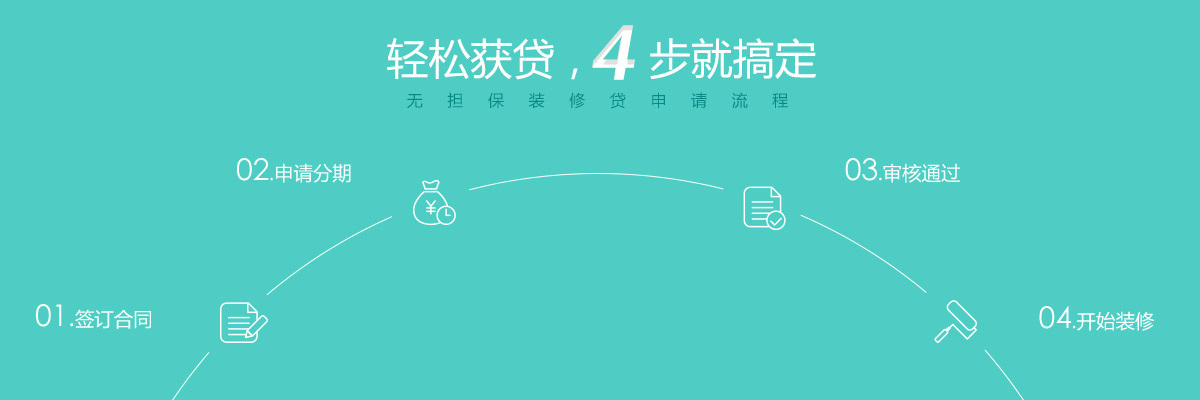
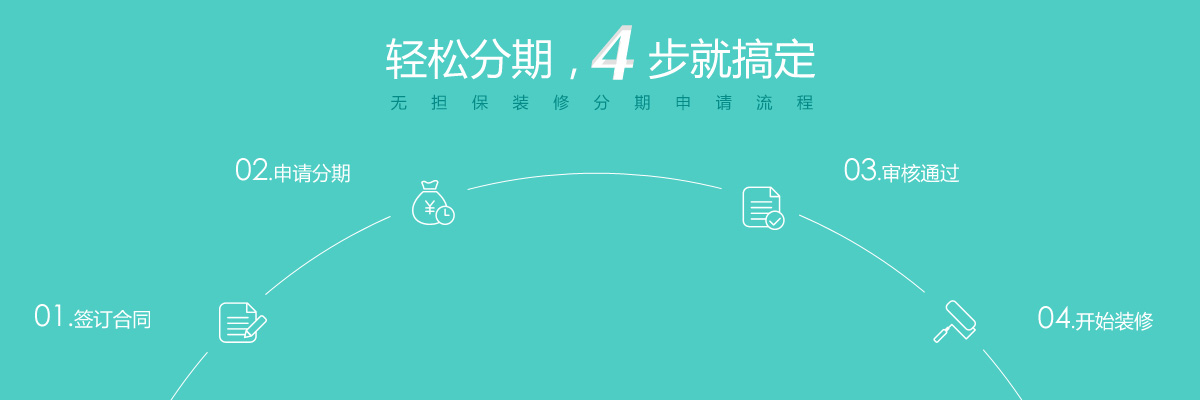
ui更新

diff --git a/anjia/index.html b/anjia/index.html
@@ -116,48 +116,48 @@
             </div>
         </div>
     </div>
-    <div class="cooperative-business-main bg-color-white">
+    <div class="cooperative-business-main">
     	<div class="ui-wrap">
         	<div class="common-title1">合作商家</div>
-            <div class="business-cooperation-list">
-            	<ul class="clearfix">
-                	<li>
-                    	<img src="../res/images/business-img1.jpg" class="b-c-proimg" />
-                        <div class="b-c-list-r">
-                        	<p class="b-c-logo-p">
-                            	<img src="../res/images/b-c-logo.jpg" class="b-c-logo" />
-                            </p>
-                            <p class="b-c-title">悦享家</p>
-                            <p>
-                            	<a href="###" class=" btn-green-empty-s">查看装修案例</a>
-                            </p>
+            <div class="cooperative-business-box clearfix">
+            	<div class="cooperative-part f-right">
+                    <img src="../res/images/business-logo2.png" class="cooperative-part-logo" />
+                    <div class="cooperative-example clearfix">
+                    	<div class="cooperative-example-part cooperative-example-part-two">
+                        	<img src="../res/images/example-img2.jpg" class="c-example-img hover-img" />
+                            <div class="c-example-box">
+                            	<img src="../res/images/example-logo3.png" class="c-example-logo">
+                                <p>
+                                	<a href="http://www.cdlrzs.com/" target="_blank" class="btn-green-full">了解朗润</a>
+                                </p>
+                            </div>
                         </div>
-                    </li>
-                    <li>
-                    	<img src="../res/images/business-img1.jpg" class="b-c-proimg" />
-                        <div class="b-c-list-r">
-                        	<p class="b-c-logo-p">
-                            	<img src="../res/images/b-c-logo.jpg" class="b-c-logo" />
-                            </p>
-                            <p class="b-c-title">悦享家</p>
-                            <p>
-                            	<a href="###" class=" btn-green-empty-s">查看装修案例</a>
-                            </p>
+                    </div>
+                </div>
+            	<div class="cooperative-part">
+                    <img src="../res/images/business-logo1.png" class="cooperative-part-logo" />
+                    <div class="cooperative-example clearfix">
+                    	<div class="cooperative-example-part">
+                        	<img src="../res/images/example-img1.jpg" class="c-example-img hover-img" />
+                            <div class="c-example-box">
+                            	<img src="../res/images/example-logo1.png" class="c-example-logo">
+                                <p>
+                                	<a href="http://www.shj.cn/" target="_blank" class="btn-green-full">了解悦享家</a>
+                                </p>
+                            </div>
                         </div>
-                    </li>
-                    <li>
-                    	<img src="../res/images/business-img1.jpg" class="b-c-proimg" />
-                        <div class="b-c-list-r">
-                        	<p class="b-c-logo-p">
-                            	<img src="../res/images/b-c-logo1.jpg" class="b-c-logo" />
-                            </p>
-                            <p class="b-c-title">悦享家</p>
-                            <p>
-                            	<a href="###" class=" btn-green-empty-s">查看装修案例</a>
-                            </p>
+                        <div class="cooperative-example-part">
+                        	<img src="../res/images/example-img3.jpg" class="c-example-img hover-img" />
+                            <div class="c-example-box">
+                            	<img src="../res/images/example-logo2.png" class="c-example-logo">
+                                <p>
+                                	<a href="http://www.shj.cn/" target="_blank" class="btn-green-full">了解尊享家</a>
+                                </p>
+                            </div>
                         </div>
-                    </li>
-                </ul>
+                    </div>
+                </div>
+                
             </div>
         </div>
     </div>
@@ -185,6 +185,8 @@
 					onTouch: true
 				}
 			});
+			//合作商家经过效果
+			$.fn.businessHoverFun();
 		})
 	</script>
 </body>

diff --git a/anjia/mystaging.html b/anjia/mystaging.html
@@ -216,7 +216,7 @@
                         </div>
                     </div>
                     <div class="sign-item clearfix">
-                        <label><em>*</em>套餐类型</label>
+                        <label><em>*</em>产品类型</label>
                         <div class="sign-right-cont">
                             <select id="packageType" class="common-select" style="width:413px;">
                             </select>
@@ -225,7 +225,7 @@
                         </div>
                     </div>
                     <div class="sign-item clearfix">
-                        <label><em>*</em>贷款金额</label>
+                        <label><em>*</em>分期金额</label>
                         <div class="sign-right-cont">
                             <input id="packageMoney" type="text" placeholder="请输入贷款金额" class="common-input-text" style="width:380px;" />
                             <span class="form-validate-tip validate-error" style="display:none;"><i class="common-ico validate-ico"></i>填写正确</span>
@@ -391,7 +391,7 @@
                                     </div>
                                 </div>
                             </div>
-                            <div class="common-tap-title">工作信息</div>
+                            <div class="common-tap-title">工作信息<em>（本申请表所填写的各项信息是能否获批分期及核定金额的重要依据，务必仔细，严谨，如实填写。）</em></div>
                             <div class="common-tap-box">
                                 <div class="sign-item-box">
                                     <div class="sign-item clearfix">
@@ -463,10 +463,11 @@
                                         </div>
                                     </div>
                                     <div class="sign-item clearfix">
-                                        <label><em>*</em>税后收入</label>
+                                        <label><em>*</em>税后月收入</label>
                                         <div class="sign-right-cont">
                                             <input id="applicantWages" type="text" class="common-input-text" style="width:380px;vertical-align:middle;">&nbsp;&nbsp;<span>元</span>
                                             <span class="form-validate-tip validate-error" style="display:none;"><i class="common-ico validate-ico"></i>不能为空</span>
+                                            
                                         </div>
                                     </div>
                                     <div class="sign-item clearfix" style="margin-top:35px;">
@@ -483,6 +484,7 @@
 
 
 			<div id="step32" class="common-tap-detail" style="display:none;">
+            			<div class="common-tip">您填写的联系人信息越全面，越快审批。</div>
                         <div class="common-tap-item" id="contact-person-inf">
                             <div class="common-tap-title">亲属一</div>
                             <div class="common-tap-box">
@@ -624,7 +626,7 @@
                     <div class="upload-inf-main">
                     	<ul>
                         	<li>
-                            	<h1 class="upload-inf-title"><em>*</em>1.身份证<span>(身份证正反面)</span></h1>
+                            	<h1 class="upload-inf-title"><em>*</em>1.身份证<span>(身份证正反面+手持身份证照片)</span></h1>
                                 <div class="upload-inf-box clearfix">
                                 	<label>
                                     	<a id="img_0" href="javascript:void(0)" onclick="" class="common-btn btn-light-green upload-btn"><i class="common-ico ico-upload"></i>上传</a>

diff --git a/anjia/business.html b/anjia/business.html
@@ -58,7 +58,7 @@
                             <div class="c-example-box">
                             	<img src="../res/images/example-logo3.png" class="c-example-logo">
                                 <p>
-                                	<a href="###" class="btn-green-full">查看更多案例</a>
+                                	<a href="http://www.cdlrzs.com/" target="_blank" class="btn-green-full">了解朗润</a>
                                 </p>
                             </div>
                         </div>
@@ -72,16 +72,16 @@
                             <div class="c-example-box">
                             	<img src="../res/images/example-logo1.png" class="c-example-logo">
                                 <p>
-                                	<a href="###" class="btn-green-full">查看更多案例</a>
+                                	<a href="http://www.shj.cn/" target="_blank" class="btn-green-full">了解悦享家</a>
                                 </p>
                             </div>
                         </div>
                         <div class="cooperative-example-part">
-                        	<img src="../res/images/example-img1.jpg" class="c-example-img hover-img" />
+                        	<img src="../res/images/example-img3.jpg" class="c-example-img hover-img" />
                             <div class="c-example-box">
                             	<img src="../res/images/example-logo2.png" class="c-example-logo">
                                 <p>
-                                	<a href="###" class="btn-green-full">查看更多案例</a>
+                                	<a href="http://www.shj.cn/" target="_blank" class="btn-green-full">了解尊享家</a>
                                 </p>
                             </div>
                         </div>
@@ -148,21 +148,8 @@
 <script src="libs/utils.js"></script>
 <script type="text/javascript">
 	$(function(){
-		$('.cooperative-part').hover(function(){
-			$(this).find('.cooperative-part-logo').stop().animate({
-				'margin-top':'20px'
-			});
-			$(this).find('.cooperative-example').stop().animate({
-				'top':'112px'
-			});
-		},function(){
-			$(this).find('.cooperative-part-logo').stop().animate({
-				'margin-top':'109px'
-			});
-			$(this).find('.cooperative-example').stop().animate({
-				'top':'300px'
-			});
-		});
+		//合作商家经过效果
+		$.fn.businessHoverFun();
 	})
 </script>
 </body>

diff --git a/anjia/staging.html b/anjia/staging.html
@@ -81,7 +81,7 @@
                 	<div class="imp-sec-title">￥手续费每天低至58.3元</div>
                 	<div class="improvement-item-box">
                     	<div class="improvement-item">
-                        	<label>贷款金额</label>
+                        	<label>分期金额</label>
                             <div class="imp-right-cont">
                             	<div class="count-unit-box clearfix">
                             		<div class="count-unit">元</div>
@@ -90,7 +90,7 @@
                             </div>
                         </div>
                         <div class="improvement-item clearfix">
-                        	<label>贷款周期</label>
+                        	<label>分期周期</label>
                             <div class="imp-right-cont">
                             	<select class="common-select" style="width:349px;">
                                     <option>3个月</option>
@@ -108,8 +108,8 @@
                 <div class="improvement-box-right">
                 	<div class="i-r-l">每月还款<em class="highlight">0.00</em>元</div>
                     <div class="i-r-r">
-                    	<p>贷款金额：<em>0</em> 元</p>
-                        <p>贷款周期：<em>0</em> 期</p>
+                    	<p>分期金额：<em>0</em> 元</p>
+                        <p>分期周期：<em>0</em> 期</p>
                         <p>本息合计：<em>0</em> 元</p>
                     </div>
                 </div>
@@ -217,7 +217,7 @@
                 </div>
                 <div class="ask-list-item">
                     <div class="ask-title">装修贷款分期有哪些可选期限？</div>
-                    <div class="answer-detail">答：您可选择3、6、9、12、18、24、36、期分期付款。</div>
+                    <div class="answer-detail">答：您可选择3、6、9、12、18、24、36期分期付款。</div>
                 </div>
                 <div class="ask-list-item">
                     <div class="ask-title">燕子安家分期可以支付家居、建材等其他家装产品吗？</div>

diff --git a/res/js/ui.js b/res/js/ui.js
@@ -110,11 +110,30 @@
 				$(this).find('.select-city-area').hide();
 			});
 		},
+		//填充底部html
 		insertBottomHtml:function(){
 			$('.ui-bottom').empty().load('/anjia/footer.html',function(){});
 		},
 		insertBottomTypeHtml:function(){
 			$('.ui-bottom-type').empty().load('/anjia/footer-type.html',function(){});
+		},
+		//合作商家经过函数
+		businessHoverFun:function(){
+			$('.cooperative-part').hover(function(){
+				$(this).find('.cooperative-part-logo').stop().animate({
+					'margin-top':'20px'
+				});
+				$(this).find('.cooperative-example').stop().animate({
+					'top':'112px'
+				});
+			},function(){
+				$(this).find('.cooperative-part-logo').stop().animate({
+					'margin-top':'109px'
+				});
+				$(this).find('.cooperative-example').stop().animate({
+					'top':'300px'
+				});
+			});
 		}	
 	});
 

diff --git a/res/css/index.css b/res/css/index.css
@@ -60,6 +60,9 @@
 	float: left;
 	margin:20px 40px 0px 40px;
 }
+.cooperative-business-main{
+	padding-bottom:60px;
+}
 .cooperative-business{
 	margin-bottom:60px;
 }
@@ -510,7 +513,7 @@
 .staging-detai-main{
 	position:relative;
 	height:400px;
-	background:url(../images/staging-img.jpg) #4ecdc4 center top no-repeat;
+	background:url(../images/staging-img.jpg?12) #4ecdc4 center top no-repeat;
 }
 .staging-phone-btn{
 	position:absolute;

diff --git a/res/css/common.css b/res/css/common.css
@@ -43,6 +43,12 @@ html{
 	background:#f7f7f7;
 }
 /*common-color*/
+.common-tip{
+	font-size:16px;
+	color:#666;
+	margin-bottom:15px;
+	line-height:22px;
+}
 .light-green{
 	color:#89c997;
 }
